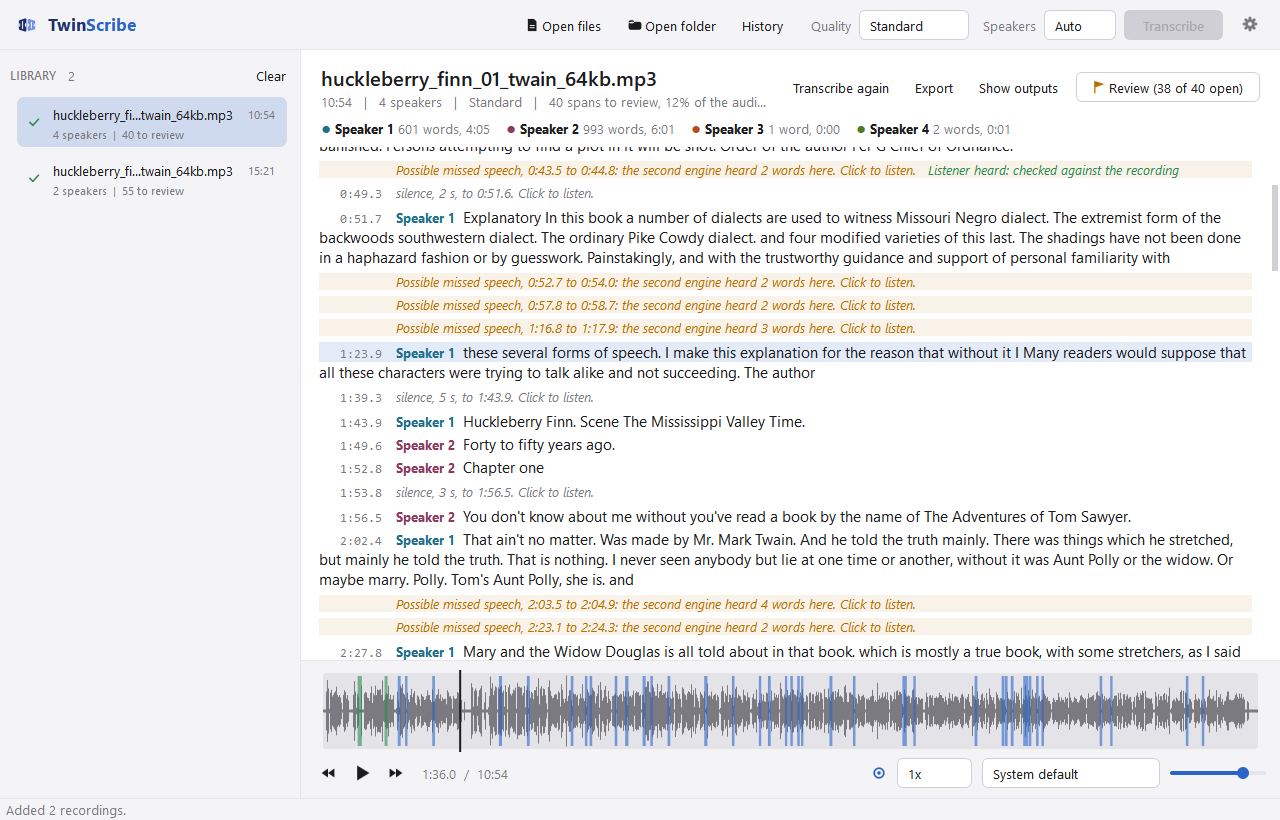
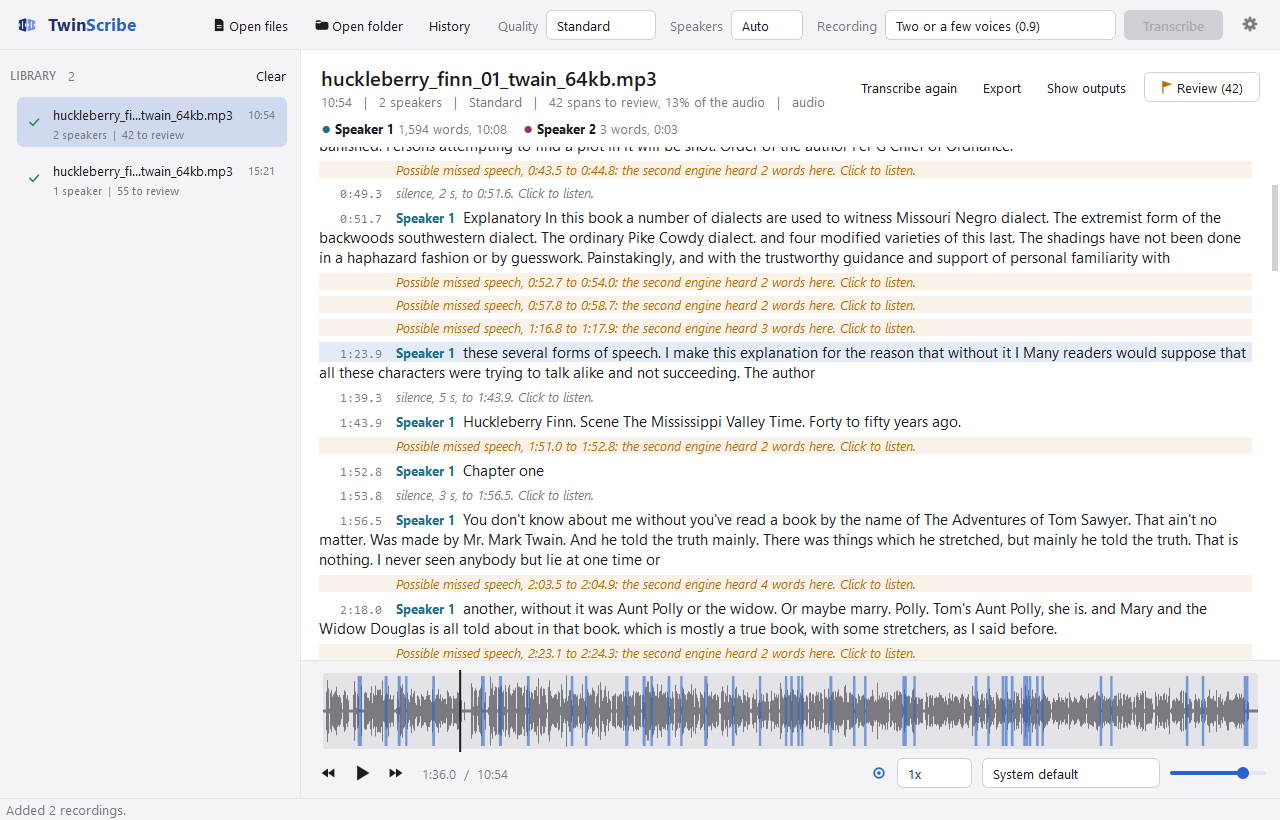
The window still shows the Recording control, taken over the showcase chapters transcribed again at the new default, and the specification's top bar names the control

diff --git a/docs/specs/batch_app.md b/docs/specs/batch_app.md
@@ -167,8 +167,9 @@ transcript recording that its word times are approximate.
 ## 6. The window, top to bottom
 
 1. Top bar: the name, Open files, Open folder, the quality level, the speaker count (Auto, or
-   a number when it is known; section 3), Transcribe (primary), Stop while a batch runs,
-   settings.
+   a number when it is known; section 3), the recording kind that sets the clustering
+   threshold (two or a few voices, or a long recording or meeting; section 3), Transcribe
+   (primary), Stop while a batch runs, settings.
 2. A horizontal splitter:
    - left, the library: one row per recording with a state glyph (not transcribed, queued,
      running with a progress ring and bar, done with a tick, failed with a warning), its name,
